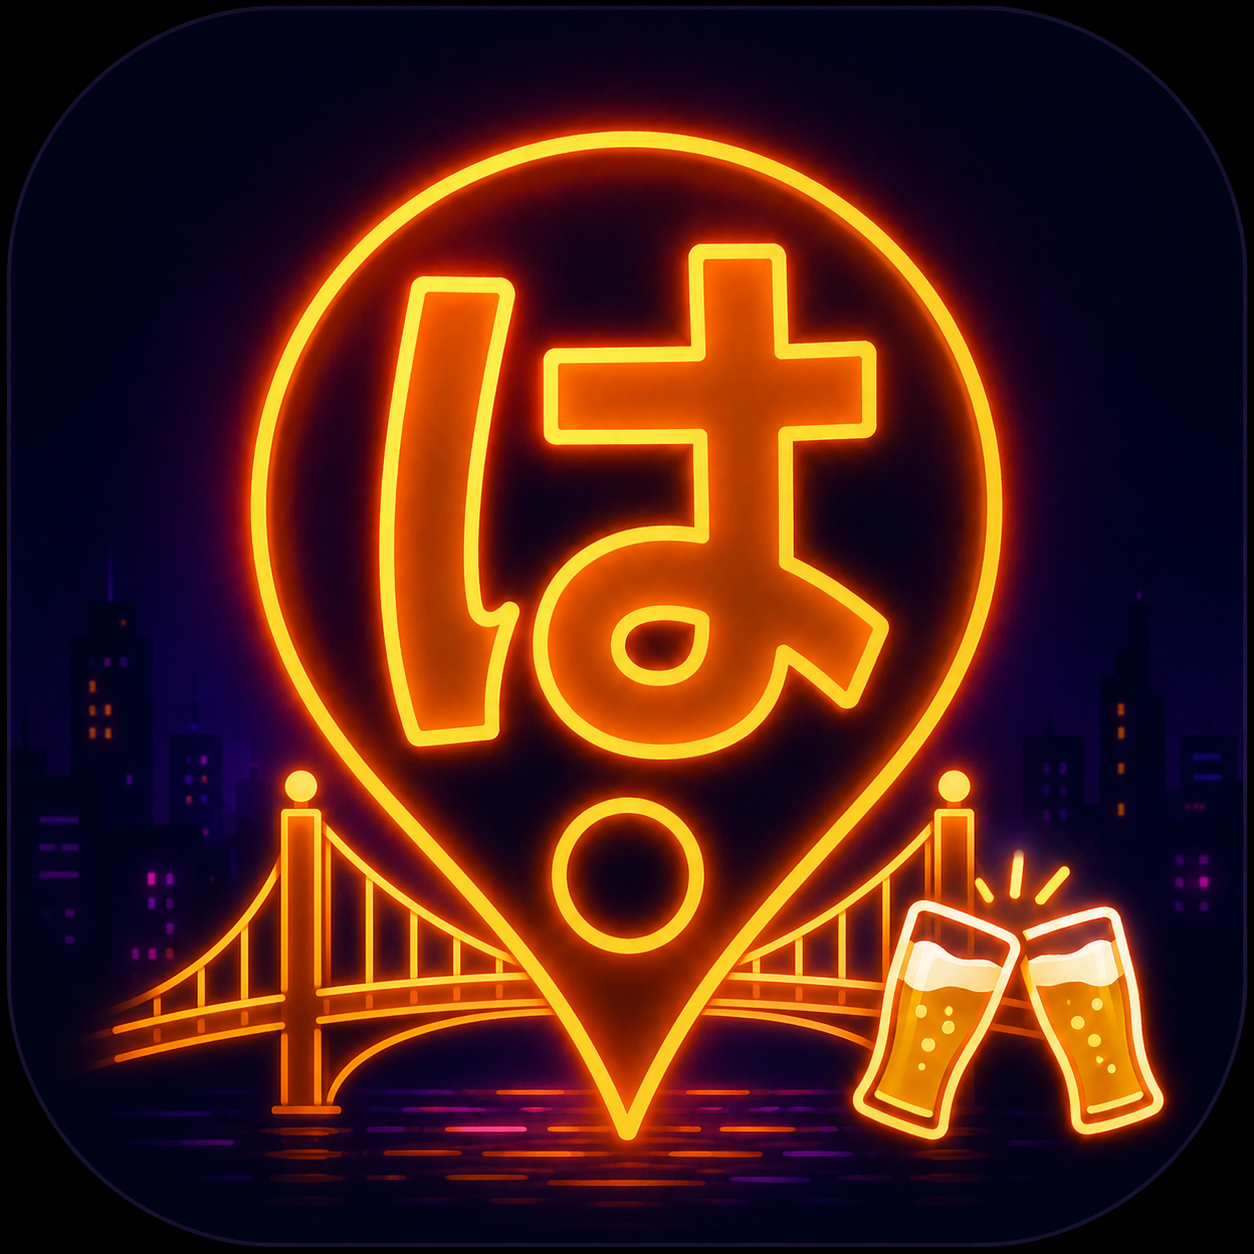
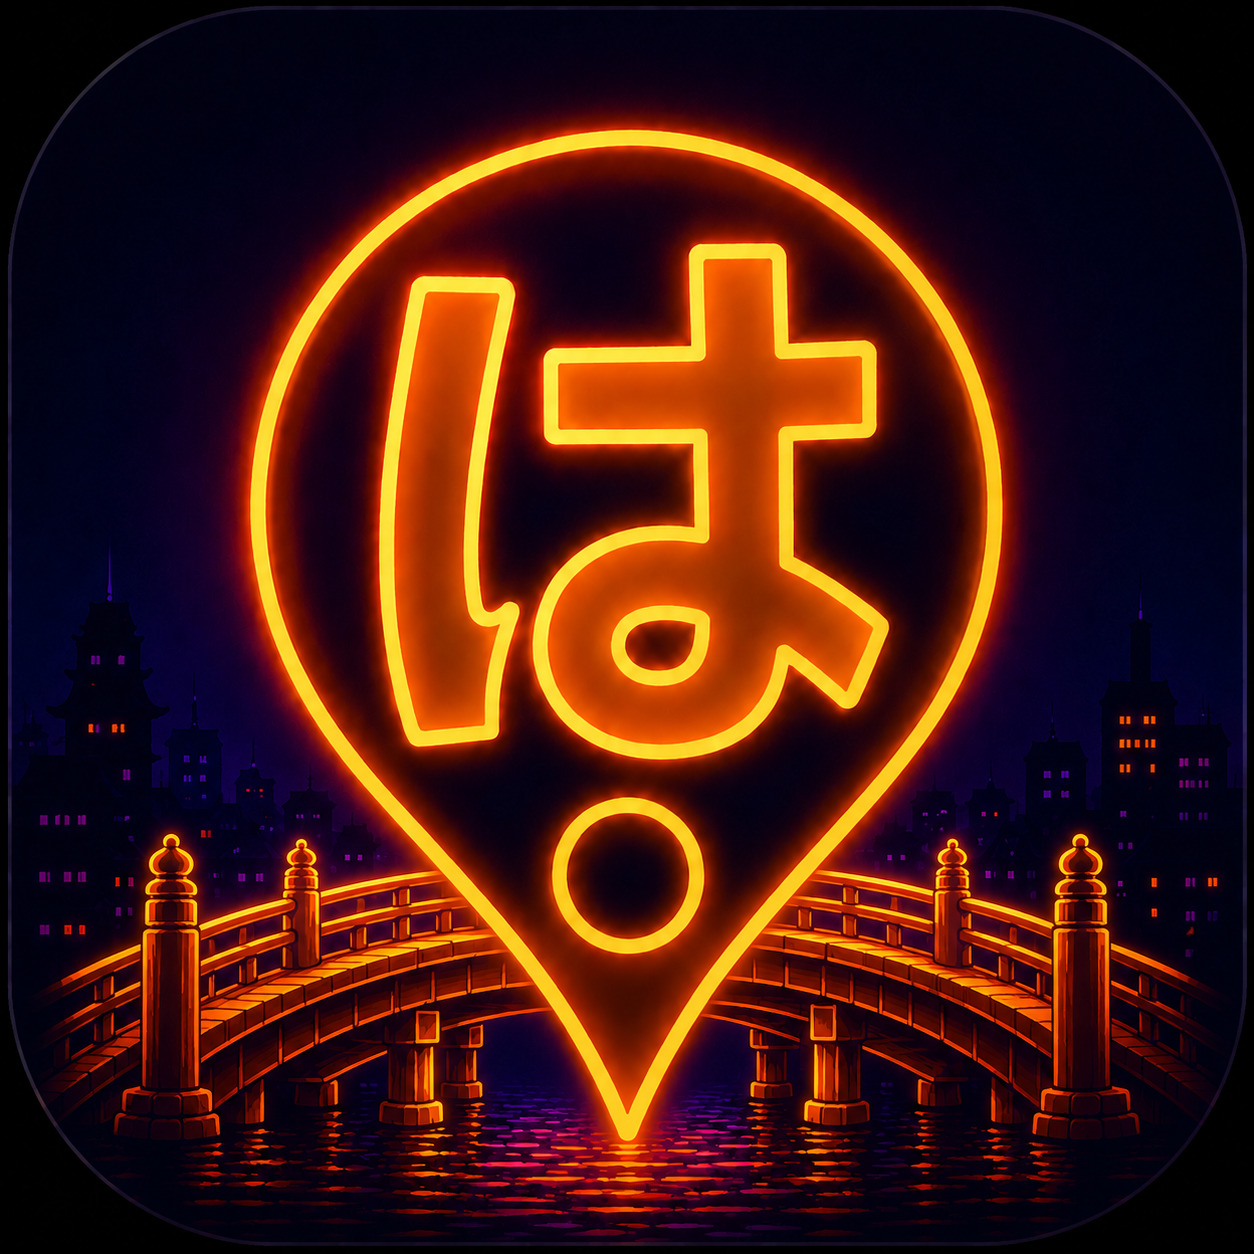
本番ハードニング＋新アイコン＋法務ページ＋CI
- RLS厳格化: グループ系をauth.uid()基準に、incoming_countはanon剥奪、インデックス追加
- 管理者判定をメール依存→adminsテーブル参照（ロールベース）
- 利用規約(/terms)・プライバシーポリシー(/privacy) 追加＋ログイン/マイページからリンク（未認証でも閲覧可）
- GitHub Actions CI（tsc＋build）
- アプリアイコン(icon.png)を新デザインに更新
- SECURITY.md の本番化TODOを更新

diff --git a/src/app/terms/page.tsx b/src/app/terms/page.tsx
@@ -1,0 +1,53 @@
+"use client";
+
+import { Header, Screen } from "@/components/ui";
+
+// 利用規約（ドラフト・雛形）。公開前に法務確認のうえ確定してください。
+export default function TermsPage() {
+  return (
+    <Screen withNav={false}>
+      <Header title="利用規約" back />
+      <div className="space-y-4 px-4 py-5 text-sm leading-relaxed text-ink">
+        <p className="text-xs text-muted">
+          ※ 本文はMVP用のドラフトです。公開前に法務確認のうえ確定してください。最終更新: 2026-07-02
+        </p>
+
+        <Section n="第1条（適用）">
+          本規約は、はしGO（以下「本サービス」）の提供条件および利用者と運営者の間の権利義務関係を定めるものです。利用者は本規約に同意のうえ本サービスを利用するものとします。
+        </Section>
+        <Section n="第2条（アカウント）">
+          利用者は正確な情報でアカウントを登録し、パスワードを自己の責任で管理するものとします。アカウントの不正利用による損害の責任は利用者が負います。
+        </Section>
+        <Section n="第3条（位置情報）">
+          本サービスは近隣店舗の提案のため、利用者の同意に基づき位置情報を取得・利用します。位置情報は検索・表示の目的にのみ使用します。
+        </Section>
+        <Section n="第4条（店舗情報・空席状況）">
+          店舗情報および空席状況は各店舗が入力・更新するものであり、運営者はその正確性・最新性を保証しません。実際の空席・入店可否は店舗の判断によります。
+        </Section>
+        <Section n="第5条（禁止事項）">
+          法令違反、虚偽情報の投稿、第三者への迷惑行為、本サービスの運営妨害、不正アクセス等を禁止します。
+        </Section>
+        <Section n="第6条（免責）">
+          運営者は、本サービスの利用または利用不能により生じた損害について、当社の故意または重過失による場合を除き責任を負いません。
+        </Section>
+        <Section n="第7条（規約の変更）">
+          運営者は必要に応じて本規約を変更できます。変更後の規約は本サービス上に表示した時点で効力を生じます。
+        </Section>
+        <Section n="第8条（準拠法・裁判管轄）">
+          本規約は日本法に準拠し、本サービスに関する紛争は運営者所在地を管轄する裁判所を専属的合意管轄とします。
+        </Section>
+
+        <p className="pt-4 text-center text-xs text-muted">はしGO 運営</p>
+      </div>
+    </Screen>
+  );
+}
+
+function Section({ n, children }: { n: string; children: React.ReactNode }) {
+  return (
+    <div>
+      <h2 className="mb-1 font-bold text-ink">{n}</h2>
+      <p className="text-sub">{children}</p>
+    </div>
+  );
+}

diff --git a/src/app/privacy/page.tsx b/src/app/privacy/page.tsx
@@ -1,0 +1,50 @@
+"use client";
+
+import { Header, Screen } from "@/components/ui";
+
+// プライバシーポリシー（ドラフト・雛形）。公開前に法務確認のうえ確定してください。
+export default function PrivacyPage() {
+  return (
+    <Screen withNav={false}>
+      <Header title="プライバシーポリシー" back />
+      <div className="space-y-4 px-4 py-5 text-sm leading-relaxed text-ink">
+        <p className="text-xs text-muted">
+          ※ 本文はMVP用のドラフトです。公開前に法務確認のうえ確定してください。最終更新: 2026-07-02
+        </p>
+
+        <Section n="1. 取得する情報">
+          メールアドレス・ニックネーム等のアカウント情報、位置情報（現在地）、お気に入り・来店履歴・レビュー・グループ利用などのサービス利用情報、端末・アクセスログ情報。
+        </Section>
+        <Section n="2. 利用目的">
+          近隣店舗の提案・地図表示、来店（送客）機能の提供、レビュー等の表示、サービス改善・分析、不正防止、お問い合わせ対応のために利用します。
+        </Section>
+        <Section n="3. 位置情報の取り扱い">
+          位置情報は利用者の同意に基づき取得し、検索・表示の目的にのみ使用します。常時追跡は行いません。端末設定でいつでも許可を取り消せます。
+        </Section>
+        <Section n="4. 第三者提供・委託">
+          法令に基づく場合を除き、本人の同意なく第三者へ個人情報を提供しません。データ保管・認証等のため外部サービス（Supabase・Mapbox・Vercel等）を利用します。
+        </Section>
+        <Section n="5. 保存期間・安全管理">
+          利用目的に必要な期間保存し、不要になった情報は削除します。アクセス制御（RLS）・通信の暗号化（HTTPS）等の安全管理措置を講じます。
+        </Section>
+        <Section n="6. 利用者の権利">
+          利用者は自己の情報の開示・訂正・削除・利用停止を請求できます。アカウント削除の申請も受け付けます。
+        </Section>
+        <Section n="7. お問い合わせ">
+          個人情報の取り扱いに関するお問い合わせは、アプリ内のお問い合わせ窓口までご連絡ください。
+        </Section>
+
+        <p className="pt-4 text-center text-xs text-muted">はしGO 運営</p>
+      </div>
+    </Screen>
+  );
+}
+
+function Section({ n, children }: { n: string; children: React.ReactNode }) {
+  return (
+    <div>
+      <h2 className="mb-1 font-bold text-ink">{n}</h2>
+      <p className="text-sub">{children}</p>
+    </div>
+  );
+}

diff --git a/src/app/login/page.tsx b/src/app/login/page.tsx
@@ -1,6 +1,7 @@
 "use client";
 
 import { useEffect, useState } from "react";
+import Link from "next/link";
 import { useRouter } from "next/navigation";
 import {
   signInWithEmail,
@@ -189,7 +190,11 @@ export default function LoginPage() {
         )}
 
         <p className="pt-2 text-center text-[11px] leading-relaxed text-muted">
-          続行することで利用規約・プライバシーポリシーに同意したものとみなします。
+          続行することで
+          <Link href="/terms" className="underline">利用規約</Link>
+          ・
+          <Link href="/privacy" className="underline">プライバシーポリシー</Link>
+          に同意したものとみなします。
         </p>
       </div>
     </Screen>

diff --git a/src/app/mypage/page.tsx b/src/app/mypage/page.tsx
@@ -105,6 +105,8 @@ export default function MyPage() {
           <Card className="divide-y divide-line">
             <Row label="お気に入りのお店" href="/favorites" />
             <Row label="来店履歴" href="/history" />
+            <Row label="利用規約" href="/terms" />
+            <Row label="プライバシーポリシー" href="/privacy" />
             <button onClick={connectLine} className="w-full">
               <div className="flex h-12 items-center gap-3 px-4">
                 <span className="text-[#06C755]">🟢</span>

diff --git a/src/lib/data/supabase.ts b/src/lib/data/supabase.ts
@@ -417,9 +417,10 @@ export const supabaseApi = {
   ): Promise<void> {
     const sb = getSupabaseBrowserClient();
     if (!sb) return mockApi.addGroupCandidate(groupId, storeId, storeName, addedBy);
+    // 重複追加は無視（UPDATEを避け、insertのみでRLSを満たす）
     await sb.from("group_candidates").upsert(
       { id: `${groupId}-${storeId}`, group_id: groupId, store_id: storeId, store_name: storeName, added_by: addedBy },
-      { onConflict: "id" }
+      { onConflict: "id", ignoreDuplicates: true }
     );
   },
 

diff --git a/src/components/auth/AuthProvider.tsx b/src/components/auth/AuthProvider.tsx
@@ -13,6 +13,8 @@ import { Spinner } from "@/components/ui";
 function isPublicPath(path: string): boolean {
   return (
     path === "/login" ||
+    path === "/terms" ||
+    path === "/privacy" ||
     path.startsWith("/merchant") ||
     path.startsWith("/admin")
   );

diff --git a/SECURITY.md b/SECURITY.md
@@ -64,10 +64,25 @@ WebをCapacitor/ネイティブWebViewでラップする想定。
 
 ---
 
-## 8. 既知の残課題（本番化TODO）
-- [ ] `is_admin()` メール判定 → ロールクレームへ
-- [ ] デモアカウントのパスワード変更/削除
-- [ ] Confirm email / Leaked Password Protection をダッシュボードでON
-- [ ] Apple プロバイダ設定（iOS）
-- [ ] レート制限の強化（Edge Function）
-- [ ] 利用規約・プライバシーポリシーの整備（`/login` に表示済みの文言のリンク先）
+## 8. 本番化TODO
+
+### 実装済み（コード/DB側）
+- [x] `is_admin()` を**メール判定 → `admins` テーブル参照**に変更（`admins` にadmin uidをseed）
+- [x] グループRLSを `USING(true)` → **本人/追加者(auth.uid())基準**に厳格化
+- [x] `incoming_count` は **anon 実行を剥奪**（認証ユーザーのみ）
+- [x] RLSインデックス追加（`stores.owner_user_id` / `group_*` / `reviews`）
+- [x] **利用規約 `/terms`・プライバシーポリシー `/privacy`**（ドラフト）＋ `/login`・マイページからリンク
+- [x] GitHub Actions CI（`tsc`＋`build`）
+
+### あなたの対応が必要（ダッシュボード/契約/外部）
+- [ ] Supabase Auth: **Email有効化・Confirm email・Site URL/Redirect URLs**
+- [ ] Supabase Auth: **Leaked Password Protection を ON**
+- [ ] デモアカウント（guest/admin/store）の**パスワード変更 or 削除**
+- [ ] Mapboxトークンに**ドメイン制限**、Supabase **Proプラン＋バックアップ**、独自ドメイン
+- [ ] Apple プロバイダ設定（iOS）、Apple Developer登録
+- [ ] `/terms`・`/privacy` の**本文を法務確認のうえ確定**（現状ドラフト）
+
+### 追加実装が望ましい（次段階）
+- [ ] 店舗オーナーの**セキュアなアカウント発行フロー**（service_role を使う Edge Function。現状は全店を1デモオーナーが所有）
+- [ ] レビュー/来店の**レート制限**（Edge Function）
+- [ ] エラー監視（Sentry）・利用計測、E2Eテスト
